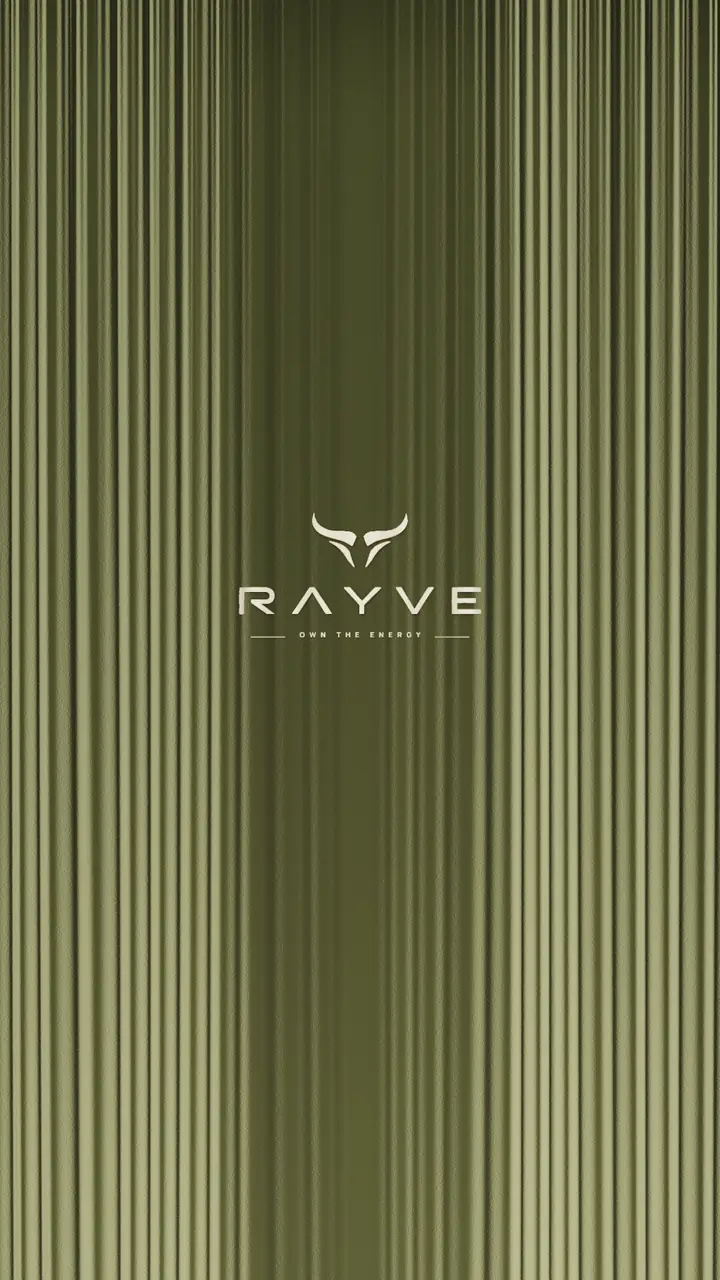
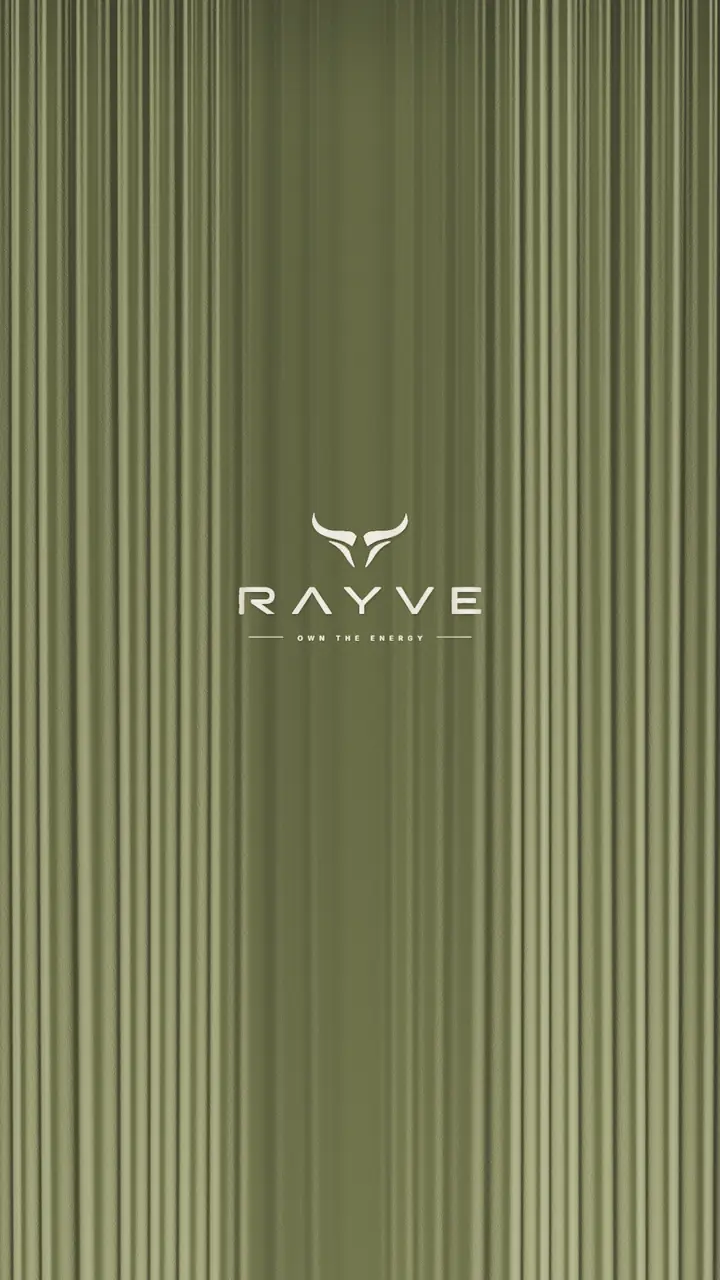
Curtain hero: poster rendered from the live engine so the hand-over has no shade change

diff --git a/src/components/home/curtain/curtainEngine.js b/src/components/home/curtain/curtainEngine.js
@@ -10,6 +10,8 @@ const PANEL = { half: 0.55, width: 0.552, height: 1.1 }; // × view.w / view.w /
 const COLS = 360, ROWS = 90, PLEATS = 12;
 const OPEN_MS = 2600, CLOSE_MS = 2400;
 
+// seeded random: the velvet comes out identical on every load (and identical to the poster image)
+function rng(seed) { return () => ((seed = (seed * 16807) % 2147483647) - 1) / 2147483646; }
 const hash = (n) => { const x = Math.sin(n) * 43758.5453; return x - Math.floor(x); };
 const vnoise = (x) => { const i = Math.floor(x); let f = x - i; f = f * f * (3 - 2 * f); return hash(i) + (hash(i + 1) - hash(i)) * f; };
 const ease = (x) => (x < 0.5 ? 4 * x * x * x : 1 - Math.pow(-2 * x + 2, 3) / 2);
@@ -109,10 +111,11 @@ export async function mountCurtain(hero, { markSrc, wordSrc, fontFamily = "sans-
     const g = c.getContext("2d");
     g.fillStyle = PALETTE.base;
     g.fillRect(0, 0, CW, CH);
+    const rand = rng(side < 0 ? 7 : 11);
     g.save();
     g.scale(CW / 1024, 1);
     for (let x = 0; x < 1024; x += 2) {
-      const v = Math.sin(x * 0.013) * 0.5 + Math.sin(x * 0.051 + 1.7) * 0.3 + (Math.random() - 0.5) * 0.4;
+      const v = Math.sin(x * 0.013) * 0.5 + Math.sin(x * 0.051 + 1.7) * 0.3 + (rand() - 0.5) * 0.4;
       g.fillStyle = v > 0 ? `rgba(${PALETTE.light}, ${0.06 * v})` : `rgba(${PALETTE.dark}, ${-0.08 * v})`;
       g.fillRect(x, 0, 2, CH);
     }
@@ -159,7 +162,8 @@ export async function mountCurtain(hero, { markSrc, wordSrc, fontFamily = "sans-
   function pileNormal() {
     const S = 256;
     const h = new Float32Array(S * S);
-    for (let i = 0; i < h.length; i++) h[i] = Math.random();
+    const rand = rng(3);
+    for (let i = 0; i < h.length; i++) h[i] = rand();
     const b = new Float32Array(S * S);
     const at = (x, y) => h[((y + S) % S) * S + ((x + S) % S)];
     for (let y = 0; y < S; y++) for (let x = 0; x < S; x++) {

diff --git a/src/components/home/curtain/curtain-hero.css b/src/components/home/curtain/curtain-hero.css
@@ -127,7 +127,7 @@
   z-index: 6;
   pointer-events: none;
   background: #353922;
-  transition: opacity 0.5s ease;
+  transition: opacity 0.9s ease;
 }
 .rv-curtain .rv-cover img { width: 100%; height: 100%; object-fit: cover; display: block; }
 .rv-curtain.gl-ready .rv-cover, .rv-curtain.is-revealed .rv-cover { opacity: 0; }
